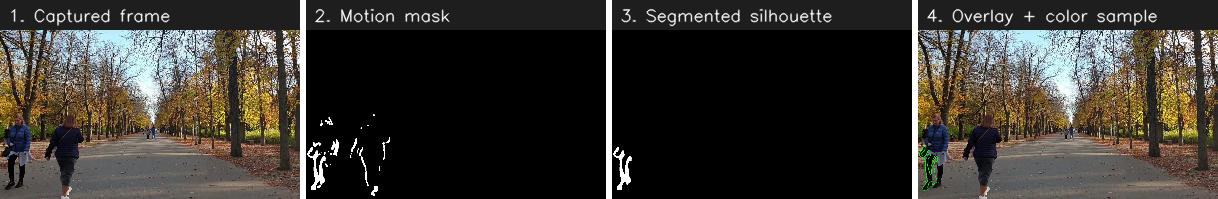
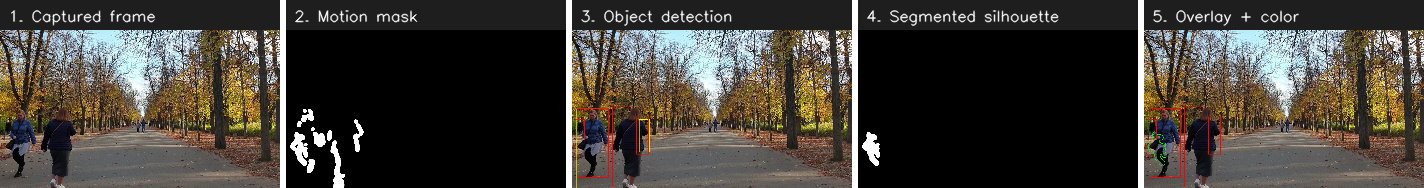
Add read me after applying clustering within the motion masked parts

diff --git a/README.md b/README.md
@@ -1,18 +1,18 @@
 # module_pipe_project
 
-A modular C++ processing pipeline showcasing interfaces, inheritance, templates, and RAII — built as an OpenCV vision pipeline: capture, motion detection, segmentation, and color analysis.
+A modular C++ processing pipeline showcasing interfaces, inheritance, templates, and RAII — built as an OpenCV vision pipeline: capture, motion detection, real person detection, segmentation, and color analysis.
 
 The project started as a simulated exercise (every module just logged a fake message) and has since been converted, module by module, into a real pipeline operating on real video frames.
 
-![Pipeline output: a walking person's silhouette outlined in green, with the sampled average color shown bottom-left](docs/images/pipeline_output.png)
+![Pipeline output: detected people outlined in red, a segmented silhouette in green, and the sampled average color shown bottom-left](docs/images/pipeline_output.png)
 
-*Real output from the pipeline running on `external/park.mp4`: `MovementDetector` flags the moving region, `SegmentationProcessor` outlines the person's precise silhouette (green), and `ColorProcessor` samples its average color (swatch, bottom-left).*
+*Real output from the pipeline running on `external/park.mp4`: `MovementDetector` flags moving regions, `ObjectDetector` verifies which ones are actually people (red boxes), `SegmentationProcessor` outlines a precise silhouette (green), and `ColorProcessor` samples its average color (swatch, bottom-left).*
 
 ## Architecture
 
 - **`IModule`** — the interface every pipeline stage implements: `run(FrameContext&)` and `name()`.
-- **`FrameContext`** — a plain struct passed by reference through every module's `run()`. It's the shared state for one frame: the captured image, the motion mask/ROI/flag, and the segmented mask. Each module reads what earlier modules wrote and writes what later modules will read.
-- **`Pipeline<ModuleT>`** — owns an ordered list of modules and runs them, taking `should_run`/`on_run` callables so the caller controls which modules run for a given frame (e.g. "only run segmentation if motion was found") without the pipeline itself knowing why.
+- **`FrameContext`** — a plain struct passed by reference through every module's `run()`. It's the shared state for one frame: the captured image, the motion mask/regions/flag, the verified person boxes, and the segmented mask. Each module reads what earlier modules wrote and writes what later modules will read.
+- **`Pipeline<ModuleT>`** — owns an ordered list of modules and runs them, taking `should_run`/`on_run` callables so the caller controls which modules run for a given frame (e.g. "only run detection if motion was found") without the pipeline itself knowing why.
 - **`LoggerBase`** — a small timestamped logging mixin used by every module.
 
 ## Modules
@@ -20,20 +20,22 @@ The project started as a simulated exercise (every module just logged a fake mes
 | Module | What it does |
 |---|---|
 | `CameraSensor` | Wraps `cv::VideoCapture` (RAII: opens on construct, releases on destruct). Supports either a webcam index or a video file path. |
-| `MovementDetector` | Frame-differencing motion detection (see [Motion detection strategy](#motion-detection-strategy)). |
-| `SegmentationProcessor` | Refines the motion mask into a precise silhouette of the moving object via contours (see [Segmentation and color strategy](#segmentation-and-color-strategy)). Could later be swapped for an ONNX model via `cv::dnn` without changing anything downstream. |
+| `MovementDetector` | Frame-differencing motion detection, producing one bounding box per distinct motion cluster (see [Motion detection strategy](#motion-detection-strategy)). |
+| `ObjectDetector` | Runs a real, pretrained object detector on each motion cluster and keeps only the ones actually classified as a person (see [Person detection strategy](#person-detection-strategy)). The "verify" stage of the coarse-to-fine cascade. |
+| `SegmentationProcessor` | Refines the motion mask into a precise silhouette of the moving object via contours (see [Segmentation and color strategy](#segmentation-and-color-strategy)). Not yet wired to `ObjectDetector`'s output — see that section for why. |
 | `ColorProcessor` | Computes the average color within the segmented silhouette only — not the whole frame. |
 
-`main.cpp` runs these as a live loop: capture a frame, run detection/segmentation/color analysis (each gated by `should_run` on what the previous stages found), display it, repeat until the source is exhausted or Esc is pressed.
+`main.cpp` runs these as a live loop: capture a frame, run motion/detection/segmentation/color analysis (each gated by `should_run` on what the previous stages found), display it, repeat until the source is exhausted or Esc is pressed.
 
 ## Pipeline stages
 
-![Four stages: captured frame, motion mask, segmented silhouette, and the overlay with sampled color](docs/images/pipeline_stages.png)
+![Five stages: captured frame, motion mask, object detection, segmented silhouette, and the overlay with sampled color](docs/images/pipeline_stages.png)
 
 1. **Captured frame** — straight from `CameraSensor`.
 2. **Motion mask** — `MovementDetector`'s raw diff mask: every pixel that changed, however scattered.
-3. **Segmented silhouette** — `SegmentationProcessor`'s refinement: just the single largest contour, filled and cleaned up.
-4. **Overlay** — the segmentation contour drawn back onto the original frame, plus the color `ColorProcessor` sampled from it.
+3. **Object detection** — `MovementDetector`'s candidate regions (yellow) narrowed down by `ObjectDetector` to only the ones confirmed to actually contain a person (red).
+4. **Segmented silhouette** — `SegmentationProcessor`'s refinement of the raw motion mask: just the single largest contour, filled and cleaned up (independent of stage 3, for now).
+5. **Overlay** — the segmentation contour and detected-person boxes drawn back onto the original frame, plus the color `ColorProcessor` sampled from the silhouette.
 
 ## Motion detection strategy
 
@@ -46,9 +48,23 @@ The project started as a simulated exercise (every module just logged a fake mes
 
 **Detection gate — why total changed pixels, not the largest contour:** the first version of this gated motion on the area of the *single largest contour* in the diff mask (a common pattern for "is there one clearly moving object"). Verified against a real test clip, that approach reported **zero** motion frames out of 367 — even in stretches where the video clearly had motion. The diff mask *did* light up (hundreds to ~4000 changed pixels in busy stretches), but as many small scattered regions rather than one solid blob, so no single contour ever crossed the area threshold.
 
-The fix: gate on `cv::countNonZero(mask) >= kMinMotionPixels` (currently 200) — the *total* number of changed pixels, regardless of how they're distributed — and set the reported ROI to `cv::boundingRect(mask)`, the bounding box over every changed pixel (OpenCV's `boundingRect` accepts a mask directly and treats its nonzero pixels as a point set). Re-verified against the same clip: 253/367 frames correctly flagged as motion, tracking the video's actual quiet/active stretches.
+The fix (v1): gate on `cv::countNonZero(mask) >= kMinMotionPixels` (currently 200) — the *total* number of changed pixels, regardless of how they're distributed. Re-verified against the same clip: 253/367 frames correctly flagged as motion, tracking the video's actual quiet/active stretches.
 
-This also cleanly splits responsibility from `SegmentationProcessor`: `MovementDetector` answers "did anything change, and roughly where" (cheap, coarse), while precise shape extraction via contours belongs to segmentation, which needs it for real.
+**Evolving to per-cluster regions:** a single combined bounding box over all changed pixels isn't useful once you want to know *how many* things moved and *where each one* is — needed so `ObjectDetector` can check each candidate separately instead of one giant box spanning the whole scene. `MovementDetector` now uses `cv::connectedComponentsWithStats` to label every separate blob individually, keeping only clusters whose own pixel count clears `kMinMotionPixels` (the same noise-filter idea, just applied per-cluster instead of to the sum) — this also replaced the old total-pixel `motionDetected` gate with a more principled one: motion is only "real" once at least one *cluster* clears the threshold, not just the sum of scattered noise. Verified on `park.mp4` (1920×1080): a walking person's motion fragments into several small blobs (moving limbs vs. a nearly-static torso), so a large elliptical dilation kernel (25×25, up from the original default 3×3/2-iterations) plus an explicit region-merging pass (repeatedly merge any two clusters whose margin-expanded boxes overlap) were both needed to consolidate one person's fragments back into a single region — dropped a worst case of 27 fragmented boxes down to 5 clean ones. Known limitation: two people standing/walking close enough together can still merge into one combined region — motion alone can't tell them apart, which is exactly the gap `ObjectDetector` (next section) closes by looking at appearance instead of just pixel change.
+
+This also cleanly splits responsibility from `SegmentationProcessor`: `MovementDetector` answers "did anything change, and roughly where, as how many distinct things" (cheap, coarse), while precise shape extraction via contours belongs to segmentation, which needs it for real.
+
+## Person detection strategy
+
+`MovementDetector`'s clusters are motion-shaped, not person-shaped — a swaying branch and a walking person produce the same kind of output. `ObjectDetector` is the "verify" stage of a coarse-to-fine cascade (motion → detection → optional segmentation), spending real model inference only on `ctx.motionRegions`, never the whole frame: crop each region (padded so a person isn't clipped at the edge), run a real pretrained detector, and keep only detections classified as `"person"` above a confidence threshold.
+
+**The actual hypothesis being tested here** isn't "this specific model is highly accurate" — the *quality* of detection (how often a real person gets missed or misclassified) is almost entirely a property of whichever model sits inside `ObjectDetector`, swappable independently of everything else. What this cascade is testing is whether **narrowing the search area first** (motion → only the regions something actually changed) makes person detection more *effective* than running a detector or segmentation model over the entire frame on every tick: less area to search means less room for a background object to get misclassified, and inference cost scales with the (usually small) motion-region area instead of the whole image. Swapping in a stronger model later would raise per-region accuracy without touching this architecture at all; the cascade's job is efficiency and focus, not accuracy — that's the model's job.
+
+**A real compatibility wall, hit by actually testing, not assumed:** the first model chosen was `person_detection_mediapipe` (Apache-2.0, from OpenCV's own model zoo, purpose-built for people). It loaded and even matched a verified-exact port of its anchor decoding — but `cv::dnn` failed to import it on our OpenCV 4.6.0, with a `Clip` node parse error: the model uses ONNX opset 13's 3-input `Clip` (implementing `Relu6`), which this OpenCV version's importer doesn't support. Two targeted patch attempts (rewriting `Clip` as `Relu`+`Min`; then also reshaping the scalar constants to `[1]`-shaped tensors) both failed at the same `eltwise_layer.cpp` assertion — a real gap in this OpenCV version's `Min`-layer implementation for constant operands, not something worth patching further.
+
+**The fix:** switched to `mobilenet_ssd` (chuanqi305/MobileNet-SSD, Caffe, MIT license) — an older architecture that sidesteps ONNX entirely (Caffe's own format), and whose `DetectionOutput` layer decodes anchors, runs NMS, and produces ready-to-use boxes *inside* the network graph itself, so `ObjectDetector` doesn't need to hand-decode anything. Trade-off: it's a **general-purpose** 20-class Pascal VOC detector (aeroplane, bicycle, ..., person, ...), not a person-specific model — `ObjectDetector` filters its output to class index 15 ("person") itself; the weights know about 20 unrelated categories it never uses.
+
+**Verified, with honest limitations:** visually confirmed on `park.mp4` — every detected box lands on a real person, zero false positives on background clutter, across a full 858-frame run (457 frames with at least one confirmed person, out of 712 with any motion at all — real filtering, not a rubber stamp). But: CPU inference is well below real-time (~80–100s of processing for ~30s of footage), and false-negative rate is unmeasured (only spot-checked visually, no ground-truth labels) — this is a verified proof of concept, not a "trust it unattended" system.
 
 ## Segmentation and color strategy
 
